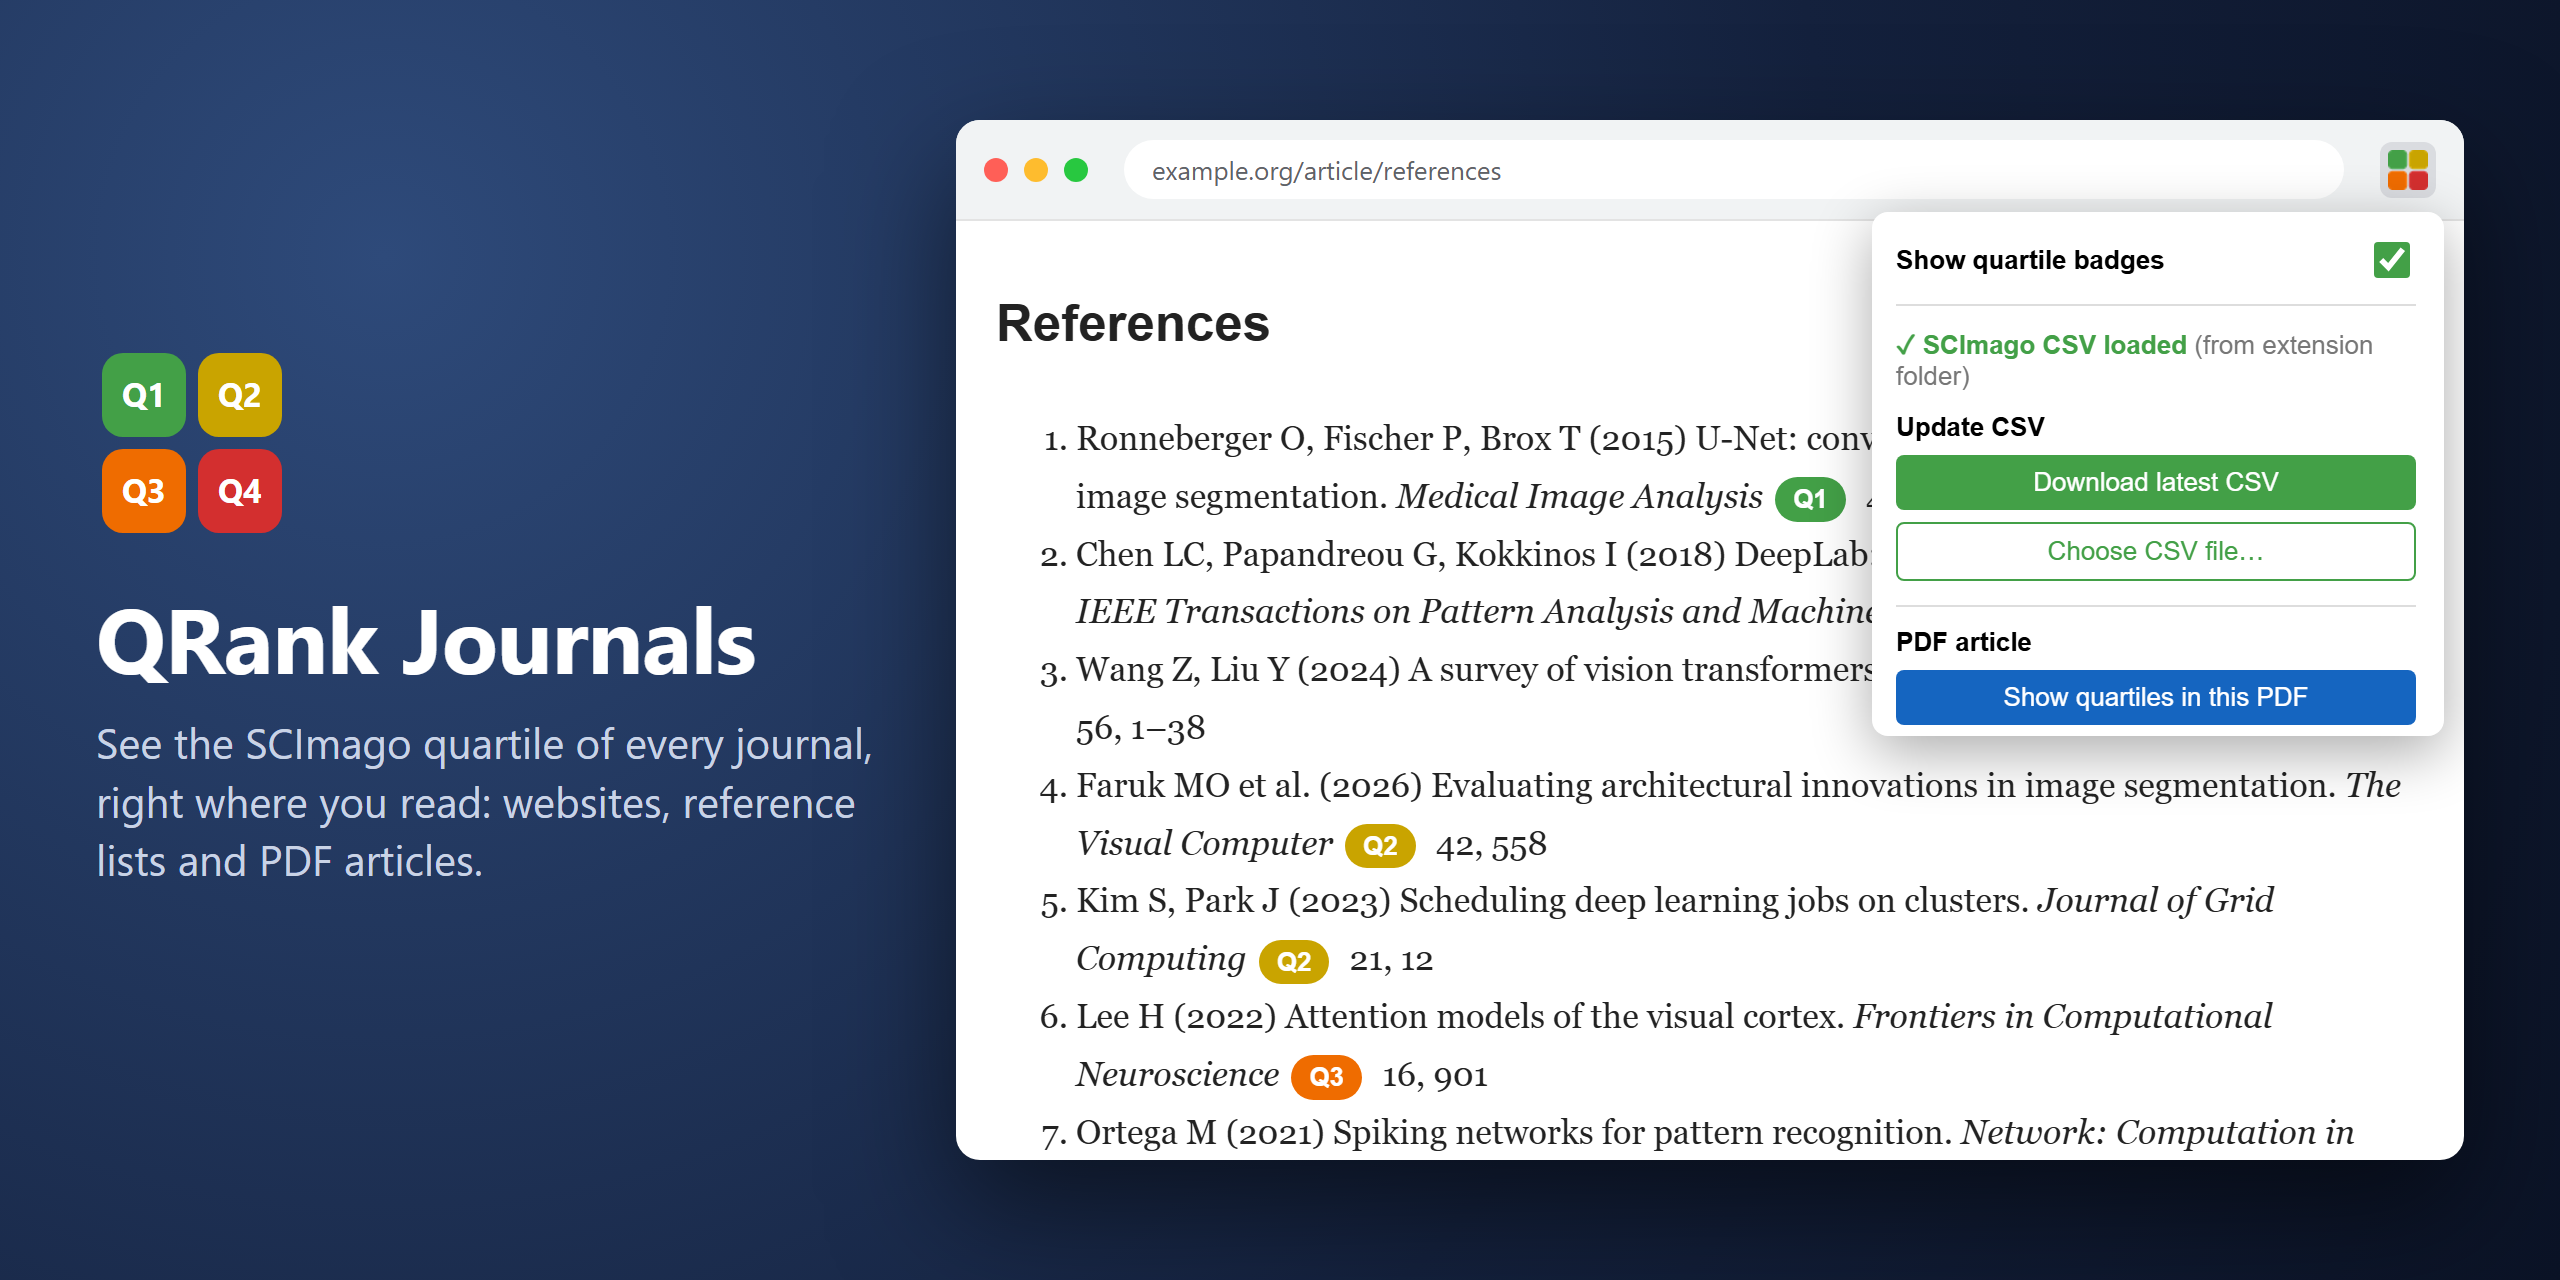
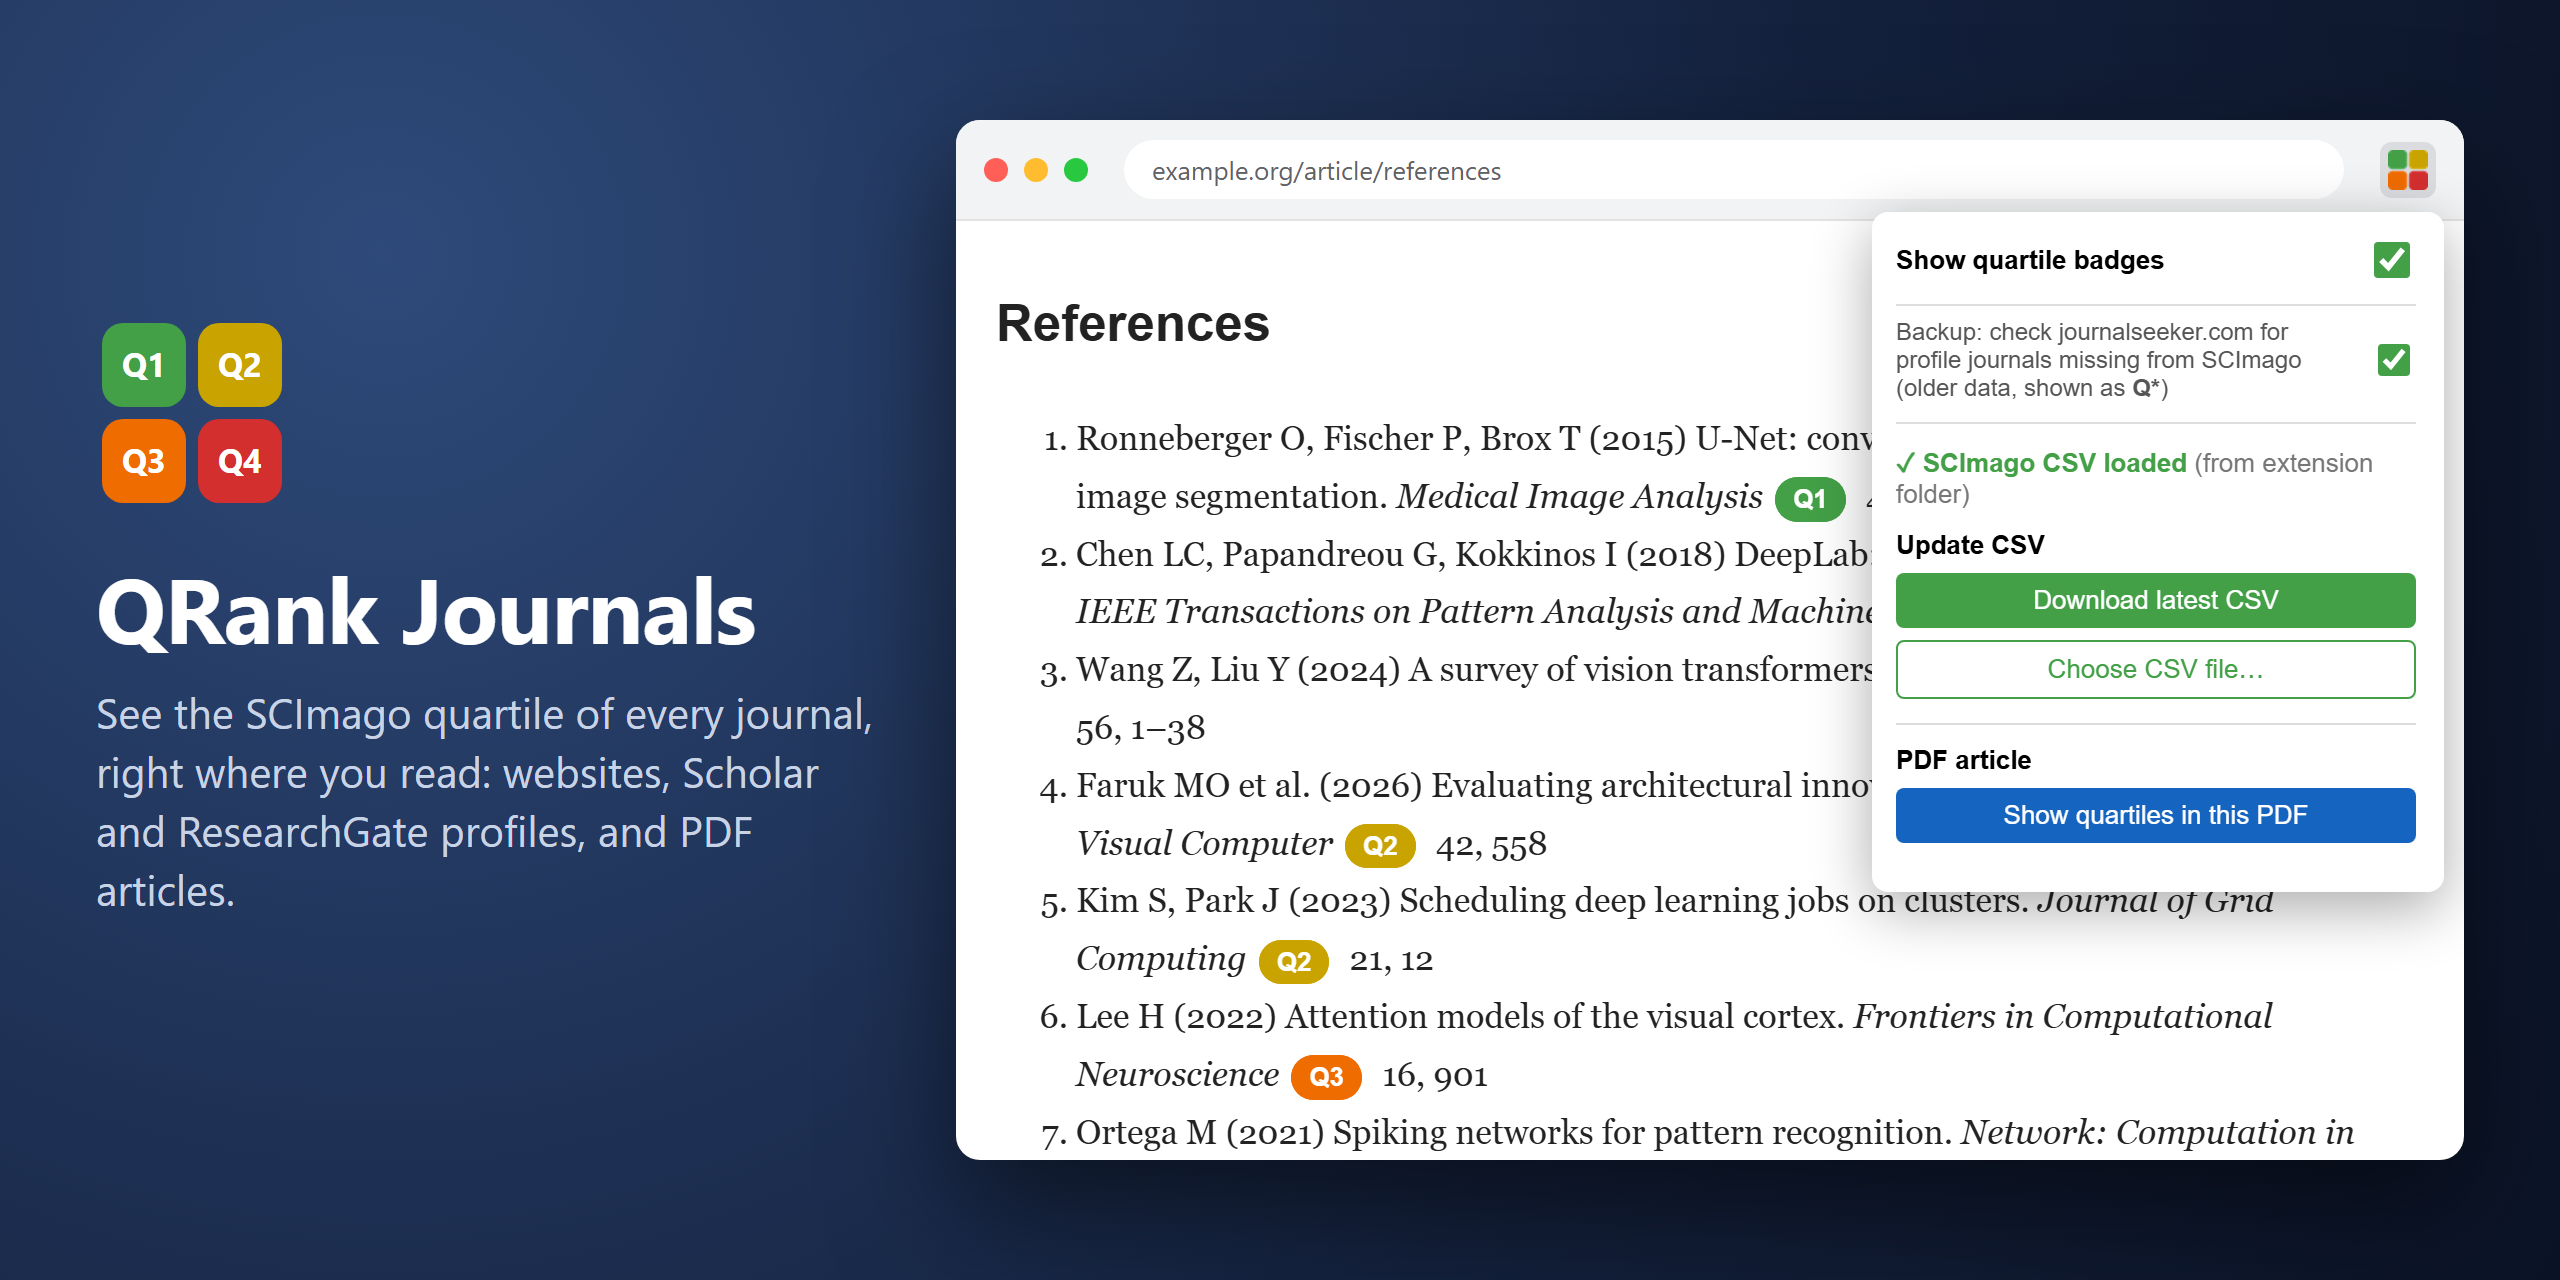
Profile summary counts each paper on the page once (ResearchGate tracking parameters, filters); refreshed screenshots
- Papers are keyed by their ResearchGate id, so links with changing "?_sg=" parameters or a paper rendered twice
  no longer inflate the count; switching filters recounts what is on the page
- Hero shows the current popup (with the journalseeker backup switch) and mentions profiles; reference list and
  PDF screenshots re-rendered with the current code

Changed region(s): [[0.7188, 0.25, 0.9688, 0.7188], [0.0312, 0.25, 0.3438, 0.7188]]

diff --git a/content.js b/content.js
@@ -44,7 +44,7 @@ async function scan() {
   const links = [...document.querySelectorAll('a[href*="journal/"]')]
     .filter(a => !done.has(a) && JOURNAL_PAGE.test(a.pathname) && !a.closest(SKIP));
   links.forEach(a => done.add(a));
-  if (!nodes.length && !links.length) return;
+  if (!nodes.length && !links.length) return summary(); // papers removed (a filter): recount what is left
   const before = nodes.map(n => n.data), items = profileItems(), pubs = items.map(i => i.el);
   const scholarVenue = n => n.parentElement.matches(SCHOLAR_VENUE);
   const venue = n => scholarVenue(n) || pubs.some(p => p.contains(n)) && !TYPES.test(n.data.trim()) && !UI_WORDS.test(n.data.trim());
@@ -157,18 +157,18 @@ function profileItems() {
 }
 
 const ORDER = ['Q1', 'Q2', 'Q3', 'Q4', 'NR', 'none'];
-// Every publication seen on this profile, by its paper link: scrolling loads more (and long lists may unload the
-// ones above), so the bar counts all of them, not just what is on screen. Reset when another profile opens.
-const seen = new Map();
-let seenOn = '';
 function summary(items = profileItems()) {
-  const old = document.getElementById('qrank-sum'), page = location.href.split('#')[0];
-  if (page !== seenOn) { seen.clear(); seenOn = page; }
+  const old = document.getElementById('qrank-sum');
   if (!items.length) return old?.remove();
-  // The last badge is the venue's (a title can contain a journal name too).
-  for (const { el, venue } of items)
-    seen.set(el.querySelector('a.gsc_a_at, a[href*="publication/"]')?.href ?? el.textContent.slice(0, 300),
-      [...venue?.querySelectorAll('.qrank') ?? []].at(-1)?.textContent ?? 'none');
+  // One entry per paper, keyed by its id: ResearchGate links carry changing tracking parameters ("?_sg=...") and a
+  // paper can be rendered twice. The last badge is the venue's (a title can contain a journal name too).
+  const seen = new Map();
+  for (const { el, venue } of items) {
+    const href = el.querySelector('a.gsc_a_at, a[href*="publication/"]')?.href;
+    const key = href?.match(/publication\/(\d+)/)?.[1] ?? href ?? el;
+    const q = [...venue?.querySelectorAll('.qrank') ?? []].at(-1)?.textContent ?? 'none';
+    if ((seen.get(key) ?? 'none') === 'none') seen.set(key, q);
+  }
   const count = Object.fromEntries(ORDER.map(q => [q, 0]));
   for (const q of seen.values()) count[q.replace('*', '')]++; // "Q4*" (journalseeker.com) counts as Q4
   const starred = [...seen.values()].some(q => q.endsWith('*'));

diff --git a/README.md b/README.md
@@ -65,7 +65,7 @@ Open anyone's profile and a **Journal quartiles** bar sums up their publications
 
 <img src="screenshots/researchgate.png" alt="QRank quartile summary on a ResearchGate profile" width="900">
 
-<sub>Demo profiles with made-up papers and authors. The bar updates as you scroll or click *Show more*, and counts every publication loaded so far.</sub>
+<sub>Demo profiles with made-up papers and authors. The bar updates as you scroll, click *Show more* or change the filter, and counts each publication on the page once.</sub>
 
 ### Reference lists on article pages
 Publisher pages like Springer and Elsevier, and any other page with a reference list.
